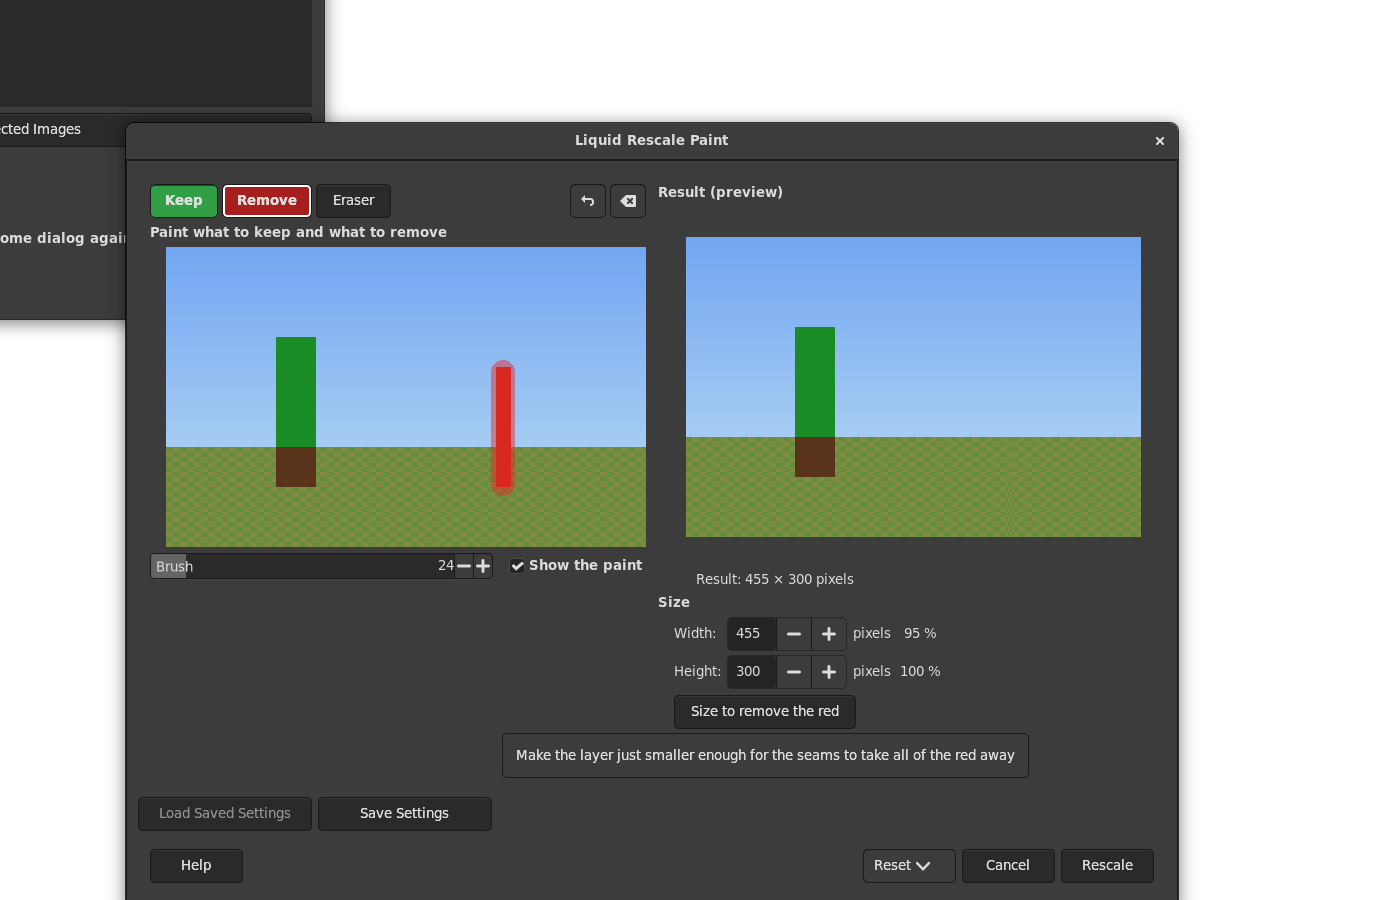
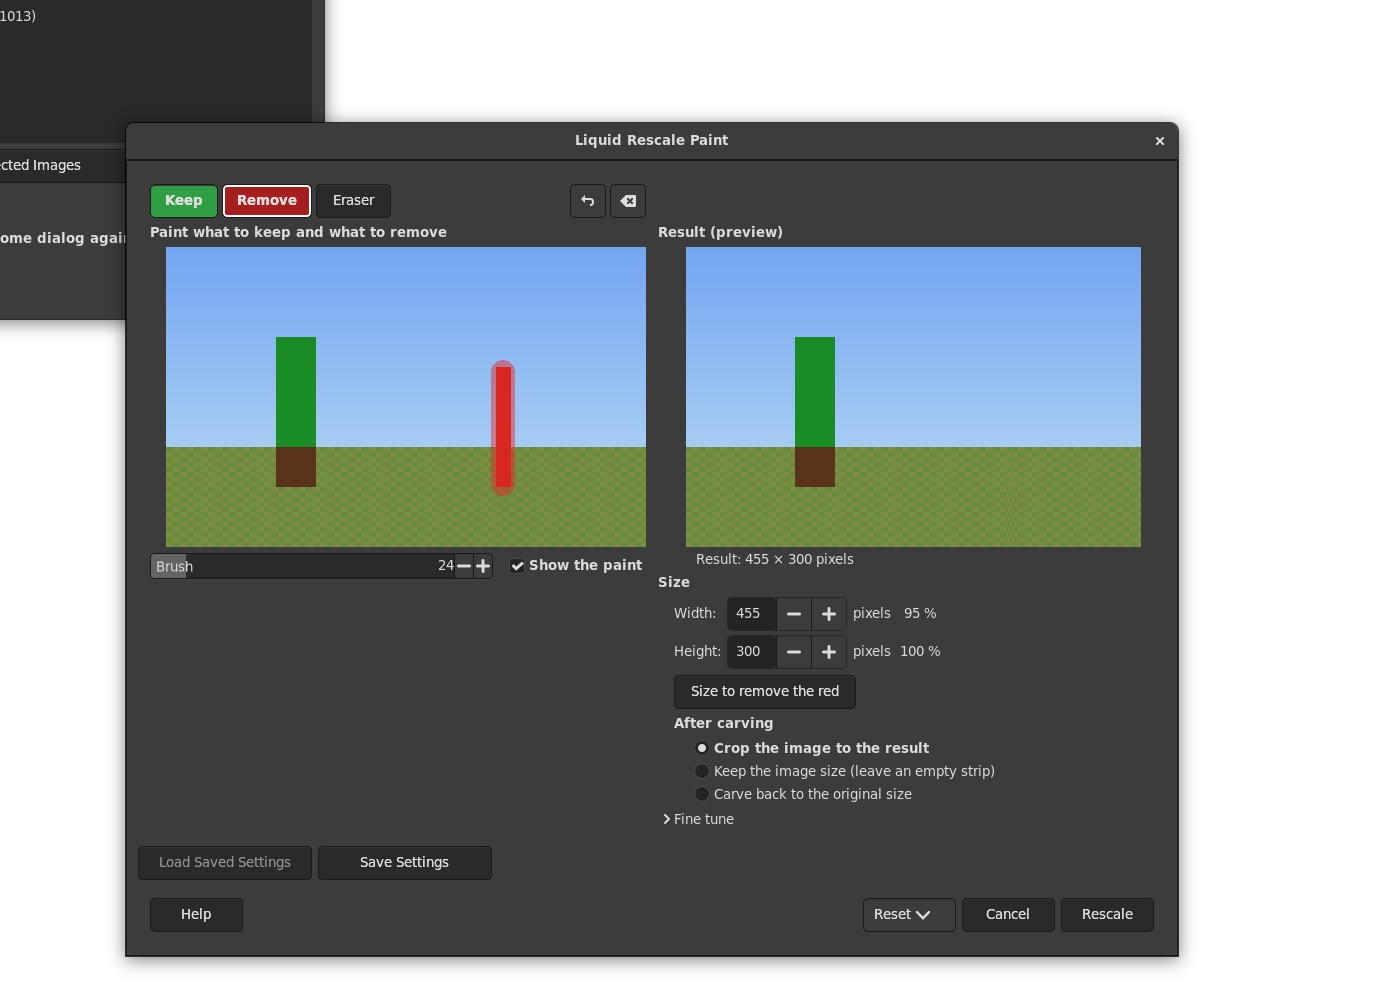
Result preview as large as the layer beside it
The result area was always 480 x 360, which left much of it empty for a
portrait layer. It is now the size of the paint view (the layer at the
view's scale), and starts level with it; a larger result, such as an
enlarged one, is still shown smaller to fit. A new screenshot of the
dialog for the README.

diff --git a/src/dialog.c b/src/dialog.c
@@ -610,11 +610,12 @@ lqr_paint_dialog (GimpProcedure       *procedure,
                   Masks              **masks_out,
                   gboolean            *changed)
 {
-  Dialog     d = { 0 };
-  GtkWidget *dialog, *content, *columns, *left, *right, *tools, *button;
-  GtkWidget *keep, *box, *grid, *expander, *fine, *show, *label;
-  gint       view_w, view_h, max;
-  gboolean   run;
+  Dialog        d = { 0 };
+  GtkWidget    *dialog, *content, *columns, *left, *right, *tools, *button;
+  GtkWidget    *keep, *box, *grid, *expander, *fine, *show, *label;
+  GtkSizeGroup *tools_height;
+  gint          view_w, view_h, max;
+  gboolean      run;
 
   d.config       = config;
   d.image        = image;
@@ -710,13 +711,21 @@ lqr_paint_dialog (GimpProcedure       *procedure,
   g_signal_connect (show, "toggled", G_CALLBACK (on_show_masks), &d);
   gtk_box_pack_start (GTK_BOX (box), show, FALSE, FALSE, 0);
 
-  /* right: the result, and the settings */
+  /* right: the result, and the settings; the result starts as far down
+   * as the layer, beside it */
   right = gtk_box_new (GTK_ORIENTATION_VERTICAL, 6);
   gtk_box_pack_start (GTK_BOX (columns), right, TRUE, TRUE, 0);
+  box = gtk_box_new (GTK_ORIENTATION_HORIZONTAL, 0);
+  gtk_box_pack_start (GTK_BOX (right), box, FALSE, FALSE, 0);
+  tools_height = gtk_size_group_new (GTK_SIZE_GROUP_VERTICAL);
+  gtk_size_group_add_widget (tools_height, tools);
+  gtk_size_group_add_widget (tools_height, box);
+  g_object_unref (tools_height);
 
   box = gtk_box_new (GTK_ORIENTATION_VERTICAL, 4);
+  /* as large as the layer on the left: a larger result is shown smaller */
   d.result_area = gtk_drawing_area_new ();
-  gtk_widget_set_size_request (d.result_area, VIEW_WIDTH, VIEW_HEIGHT);
+  gtk_widget_set_size_request (d.result_area, view_w, view_h);
   g_signal_connect (d.result_area, "draw", G_CALLBACK (on_result_draw), &d);
   gtk_box_pack_start (GTK_BOX (box), d.result_area, FALSE, FALSE, 0);
   label = gtk_box_new (GTK_ORIENTATION_HORIZONTAL, 6);
